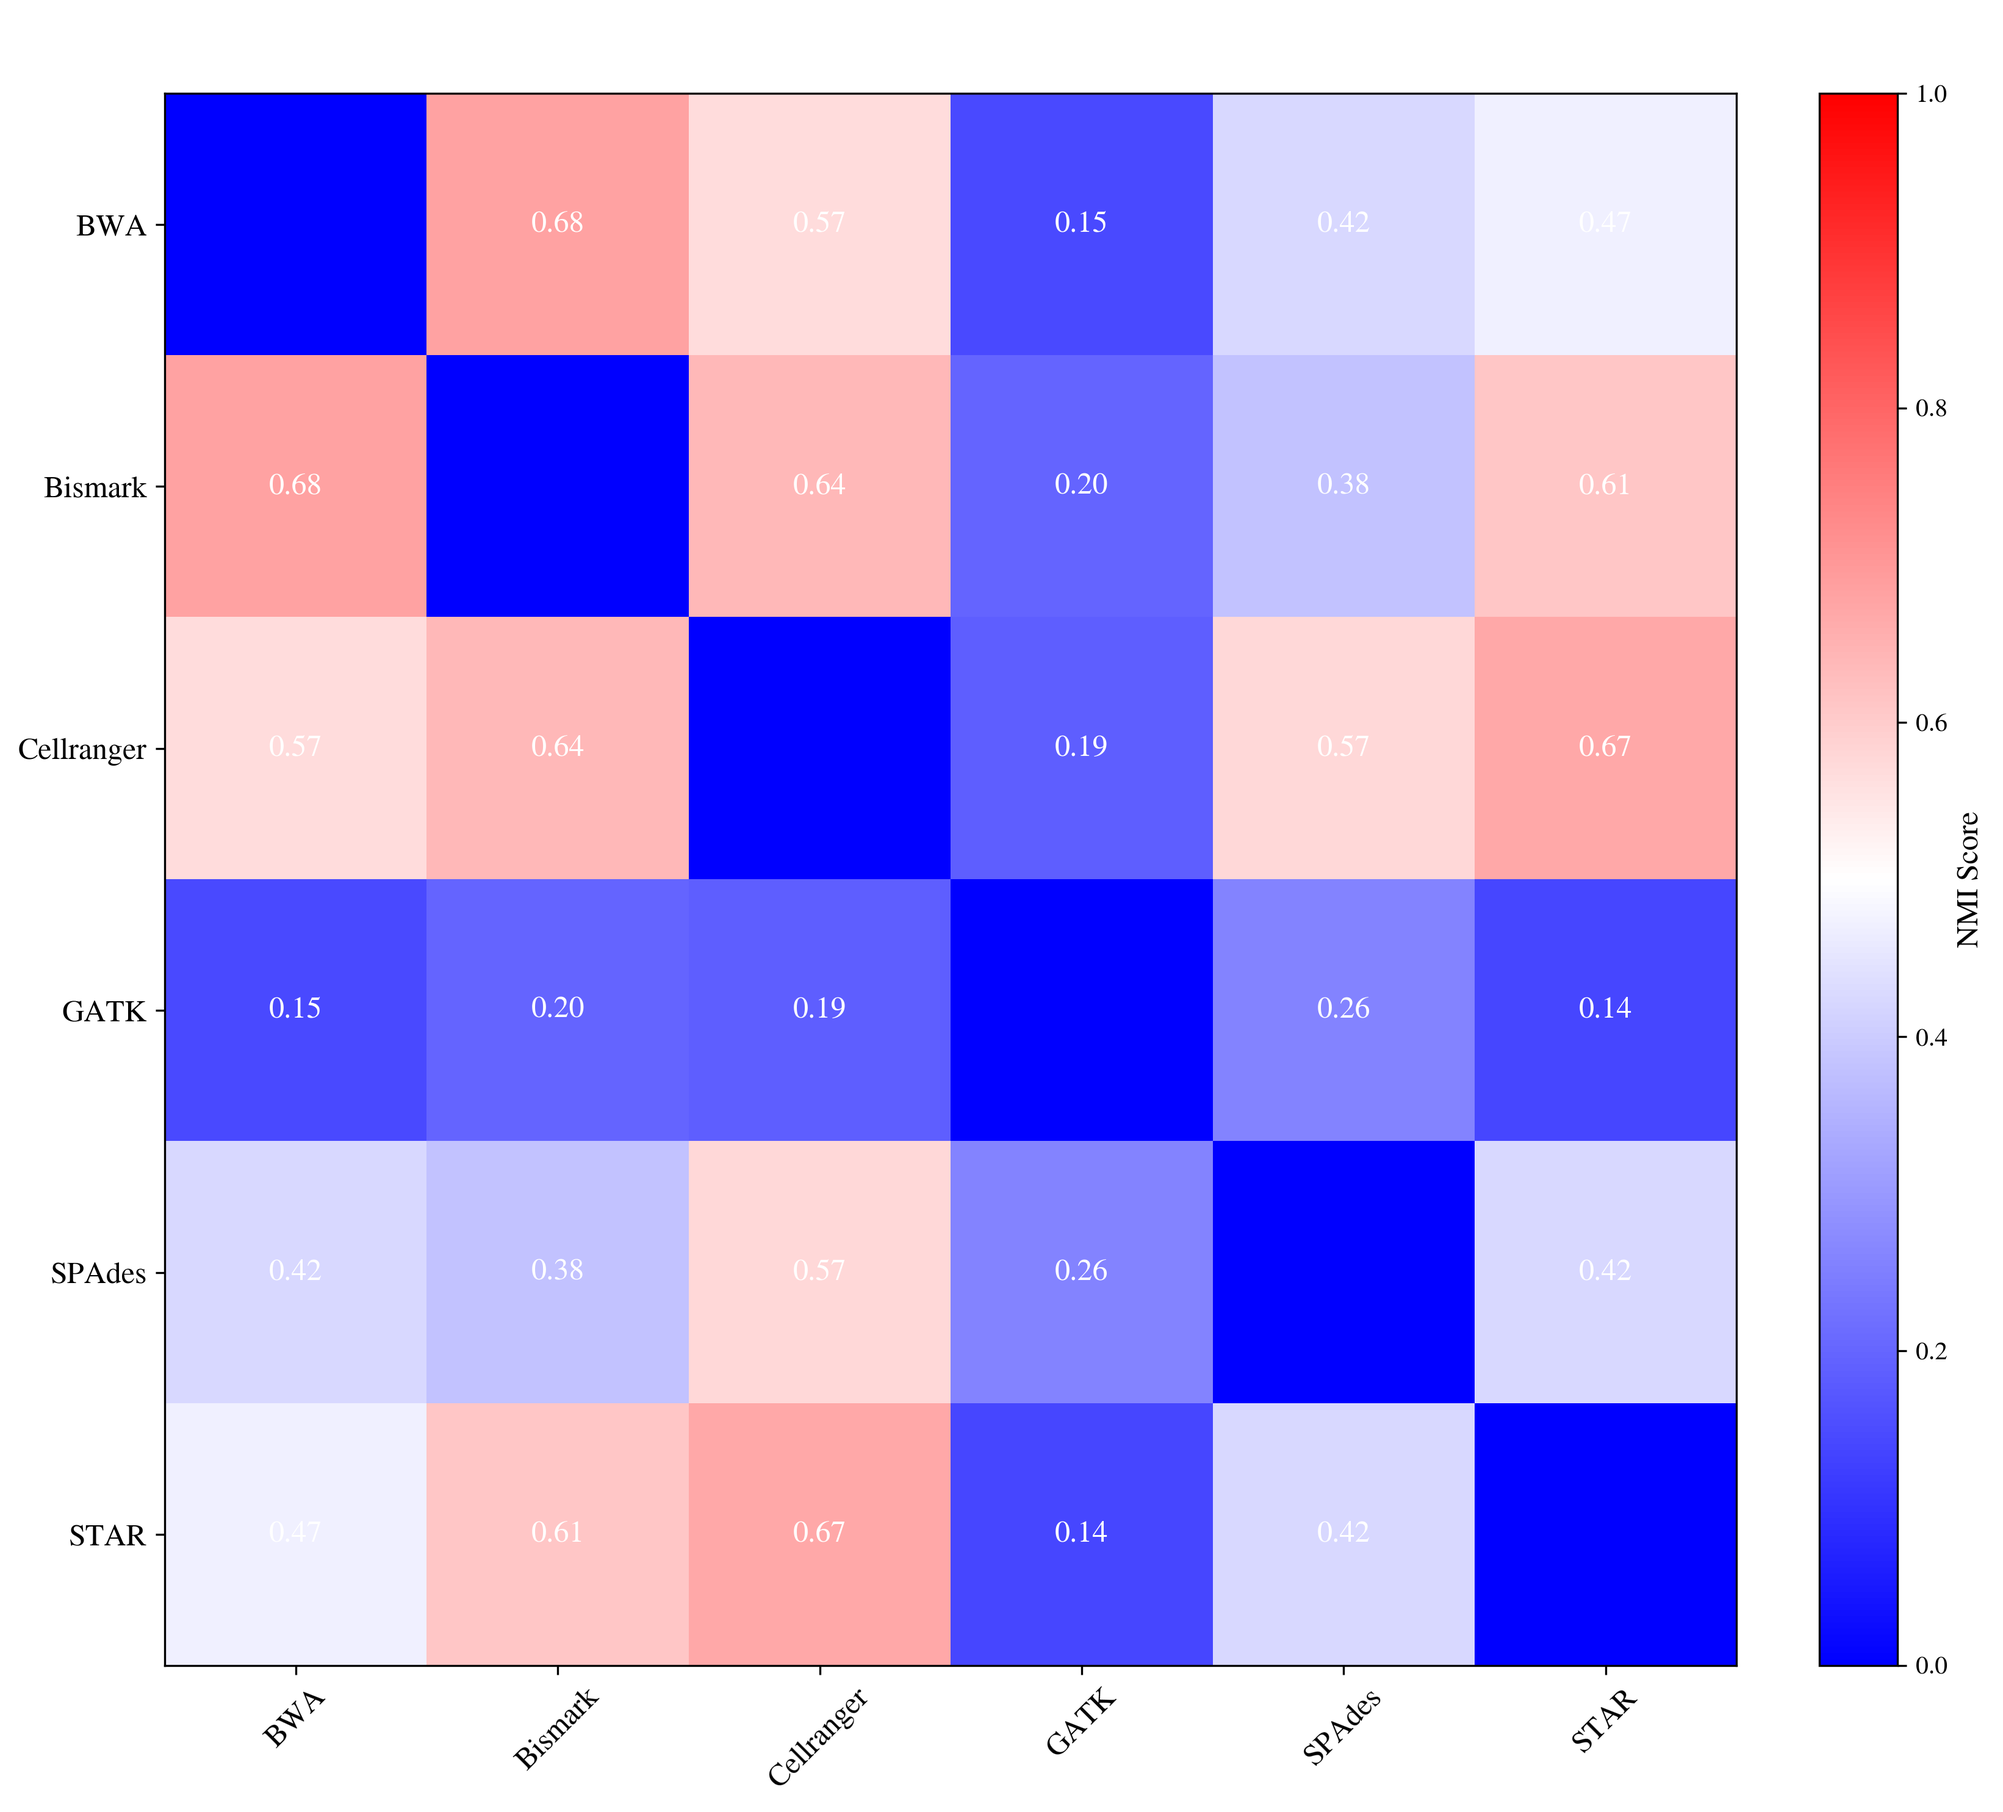
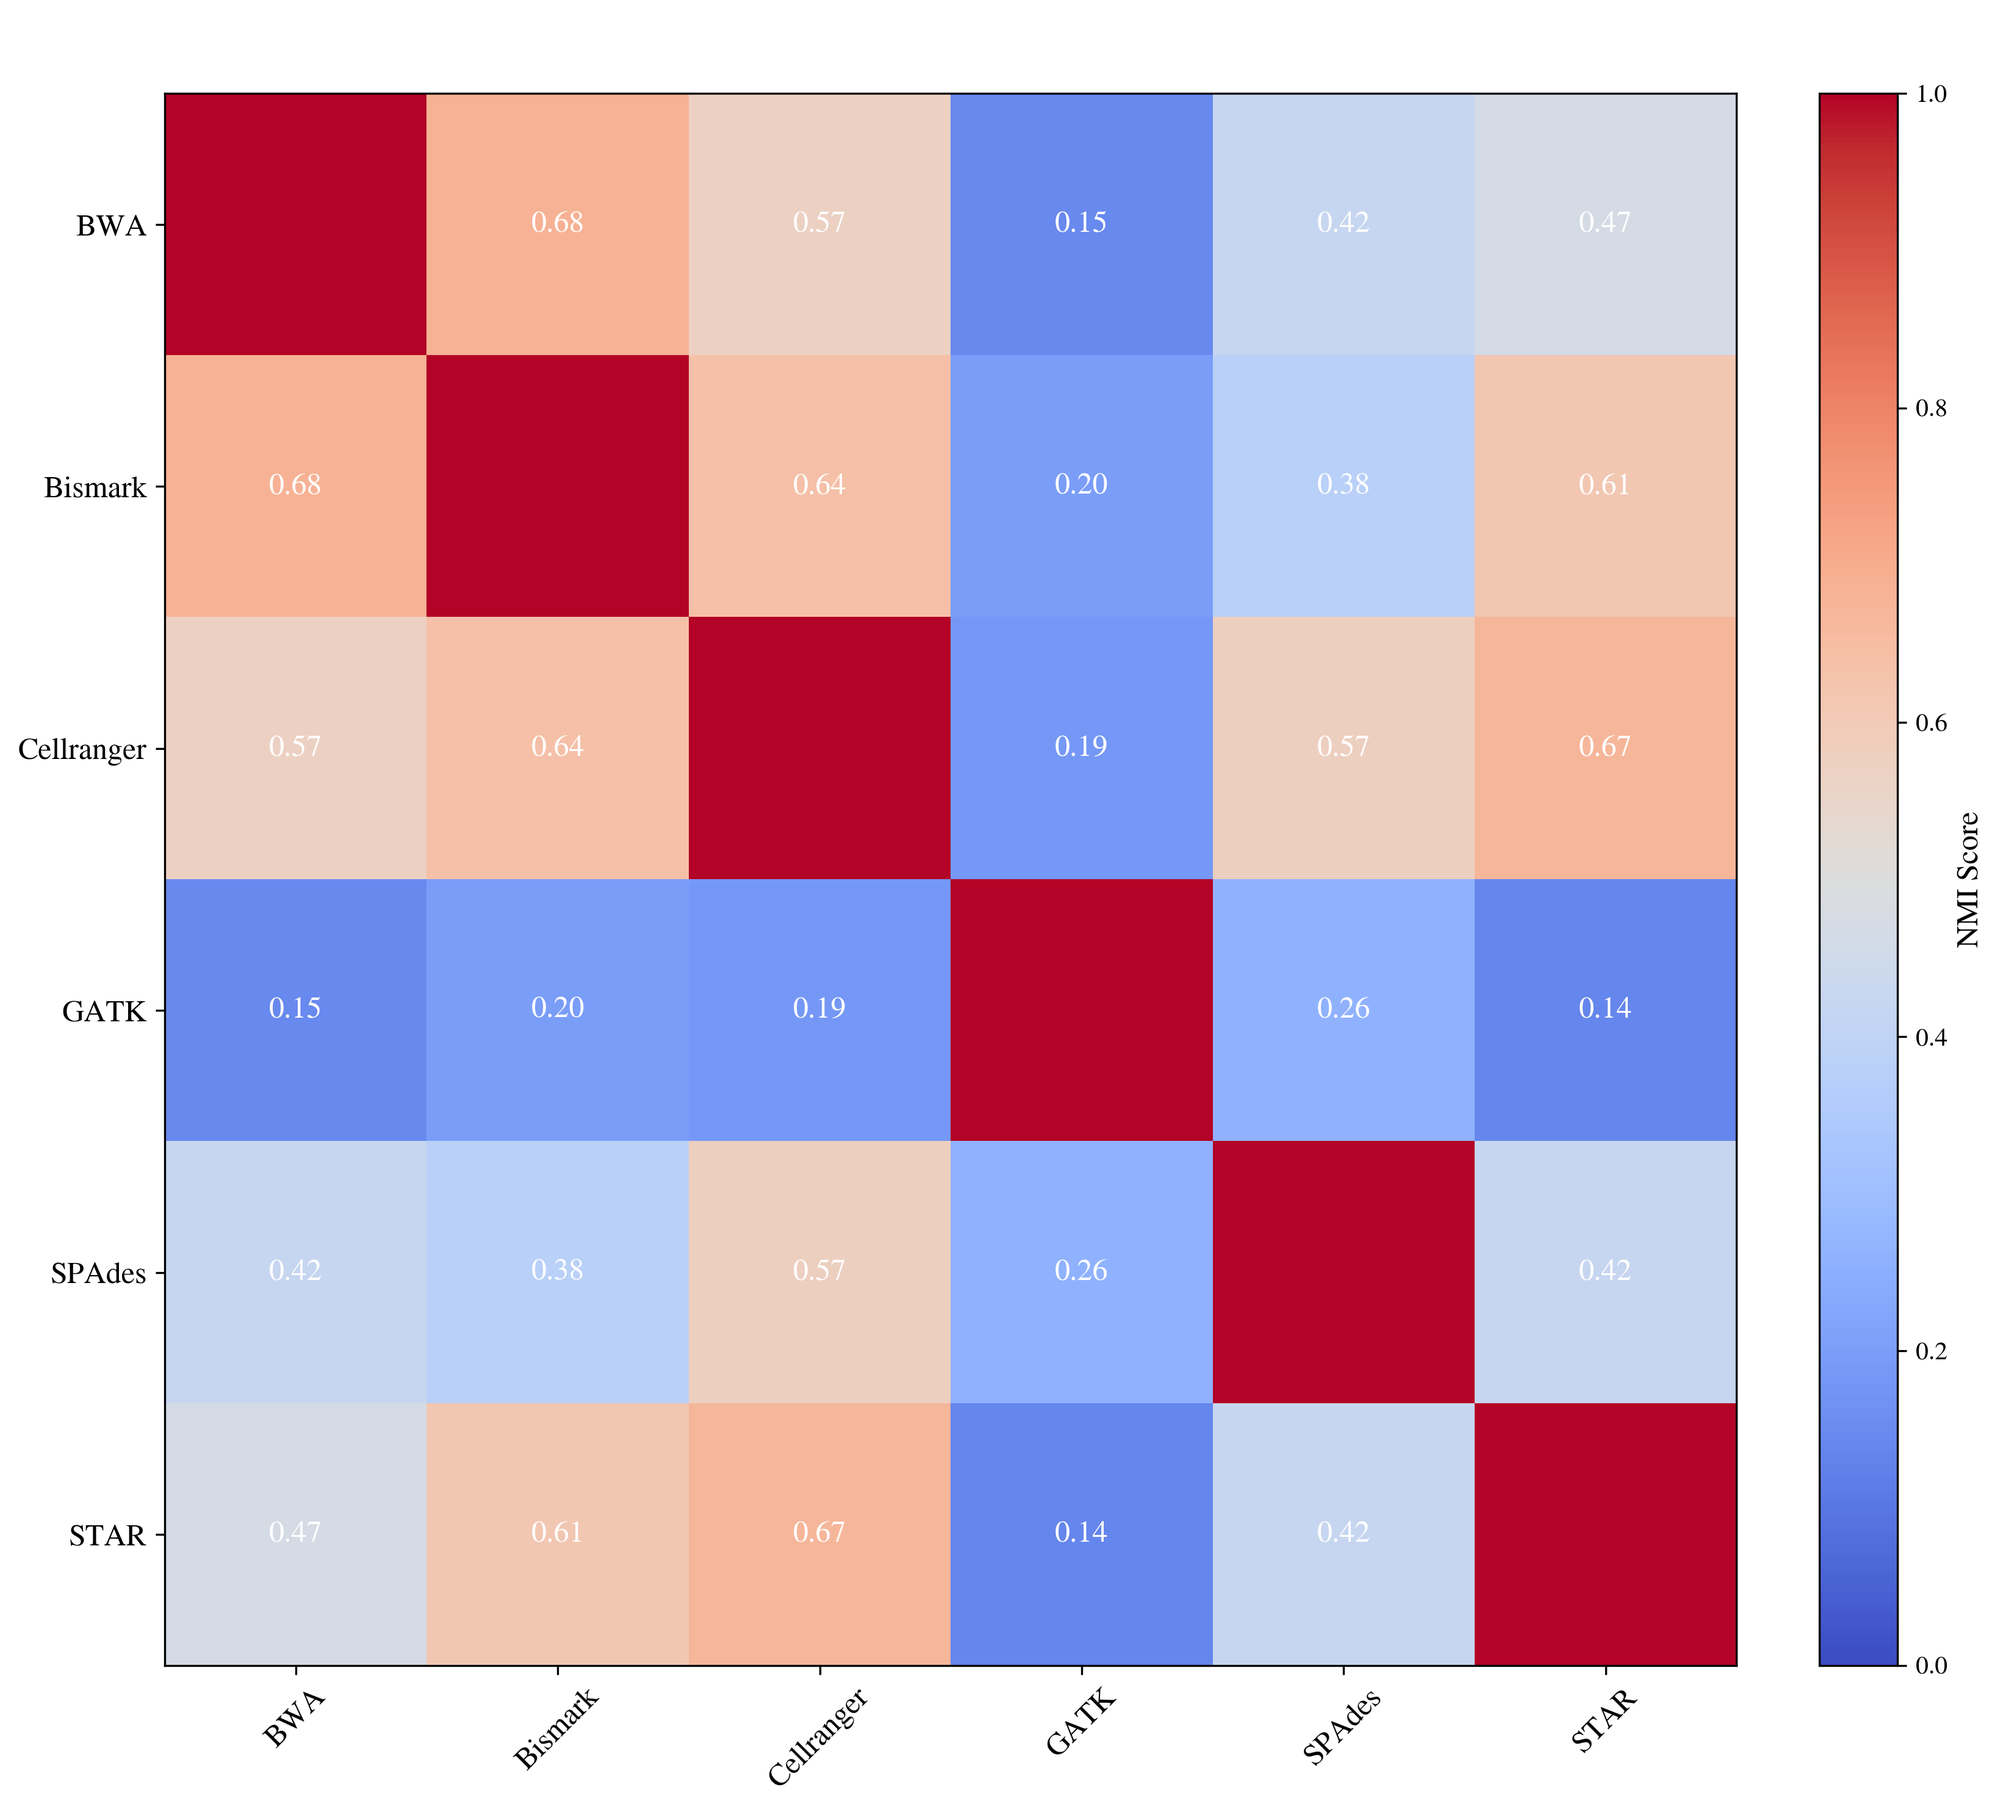
v1.0

diff --git a/nmi_heatmap.py b/nmi_heatmap.py
@@ -107,7 +107,7 @@ def plot_heatmap(heatmap_data, softwares, output_path):
     ax = plt.gca()
     
     # 绘制热图
-    im = plt.imshow(heatmap_data, cmap='bwr', vmin=0, vmax=1)
+    im = plt.imshow(heatmap_data, cmap='coolwarm', vmin=0, vmax=1)
     
     # 添加颜色条
     cbar = plt.colorbar(im, fraction=0.046, pad=0.04)
@@ -168,6 +168,9 @@ def calculate_and_plot_nmi_heatmap(softwares, data_dict, output_path):
             heatmap_data[i,j] = combined_nmi[pair]
             heatmap_data[j,i] = combined_nmi[pair]  # 对称矩阵
     
+    # 设置对角线值为1（或其他你想要的值）
+    np.fill_diagonal(heatmap_data, 1)  # 这里将对角线设为1
+    
     # 绘制热图
     plot_heatmap(heatmap_data, softwares, output_path)
     
@@ -192,7 +195,7 @@ if __name__ == "__main__":
         'pfs_send': all_pfs_send,
         'power': all_power
     }
-    print(data_dict)
+    
     # 调用函数计算并绘制热图
     output_path = './software_nmi_heatmap.png'
     metrics, combined_nmi = calculate_and_plot_nmi_heatmap(softwares, data_dict, output_path)
